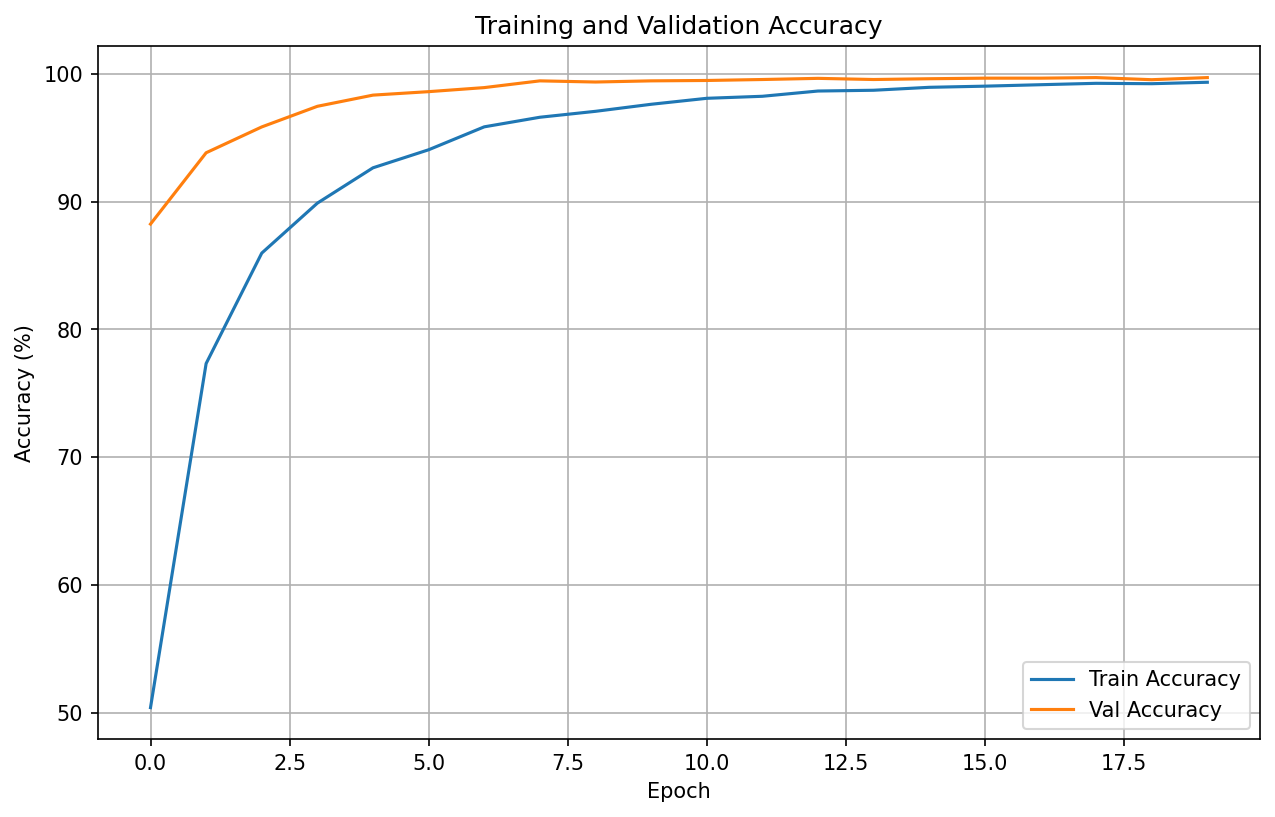
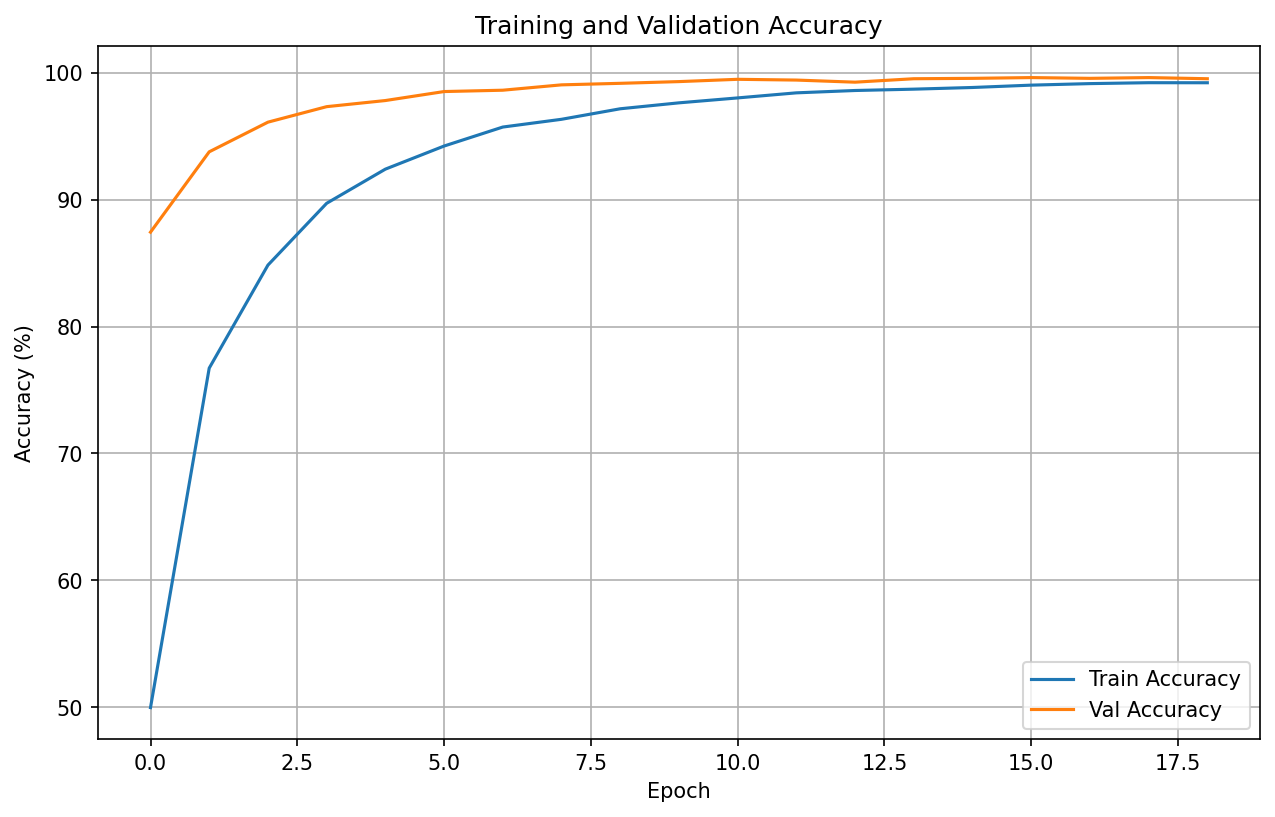
update readme and log images

diff --git a/README.md b/README.md
@@ -118,7 +118,7 @@ This approach showed **quite good results**:
 ### Loss Curves
 ![Training and Validation Loss](readme_images/training_validation_loss.png)
 
-*Training completed in 20 epochs with early stopping*
+*Training completed with early stopping*
 
 ### Accuracy
 ![Accuracy Plot](readme_images/training_validation_accuracy.png)